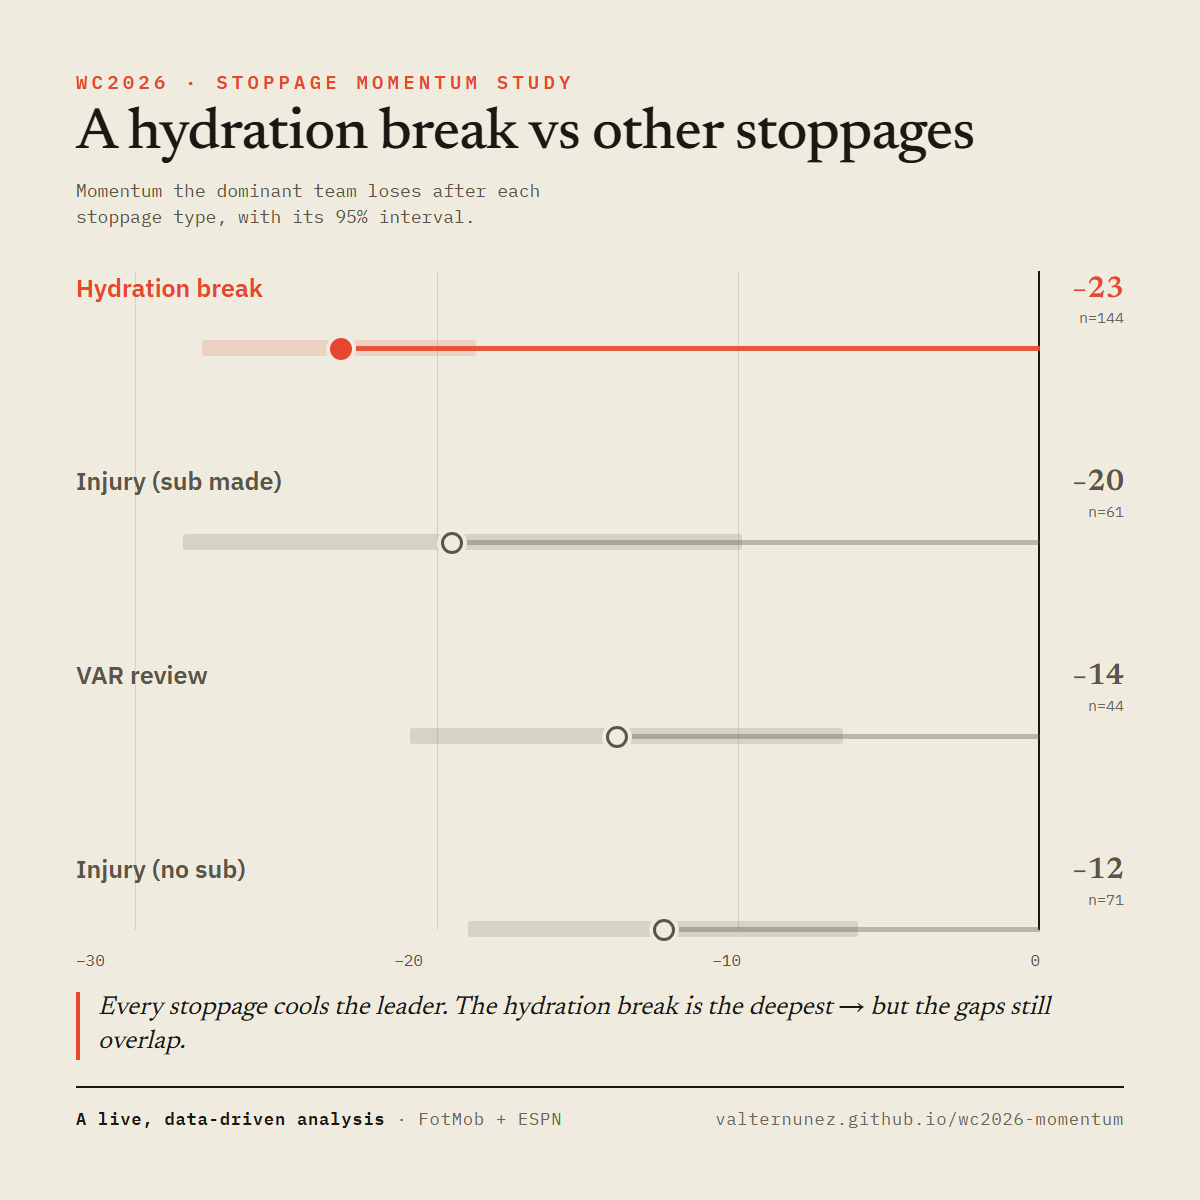
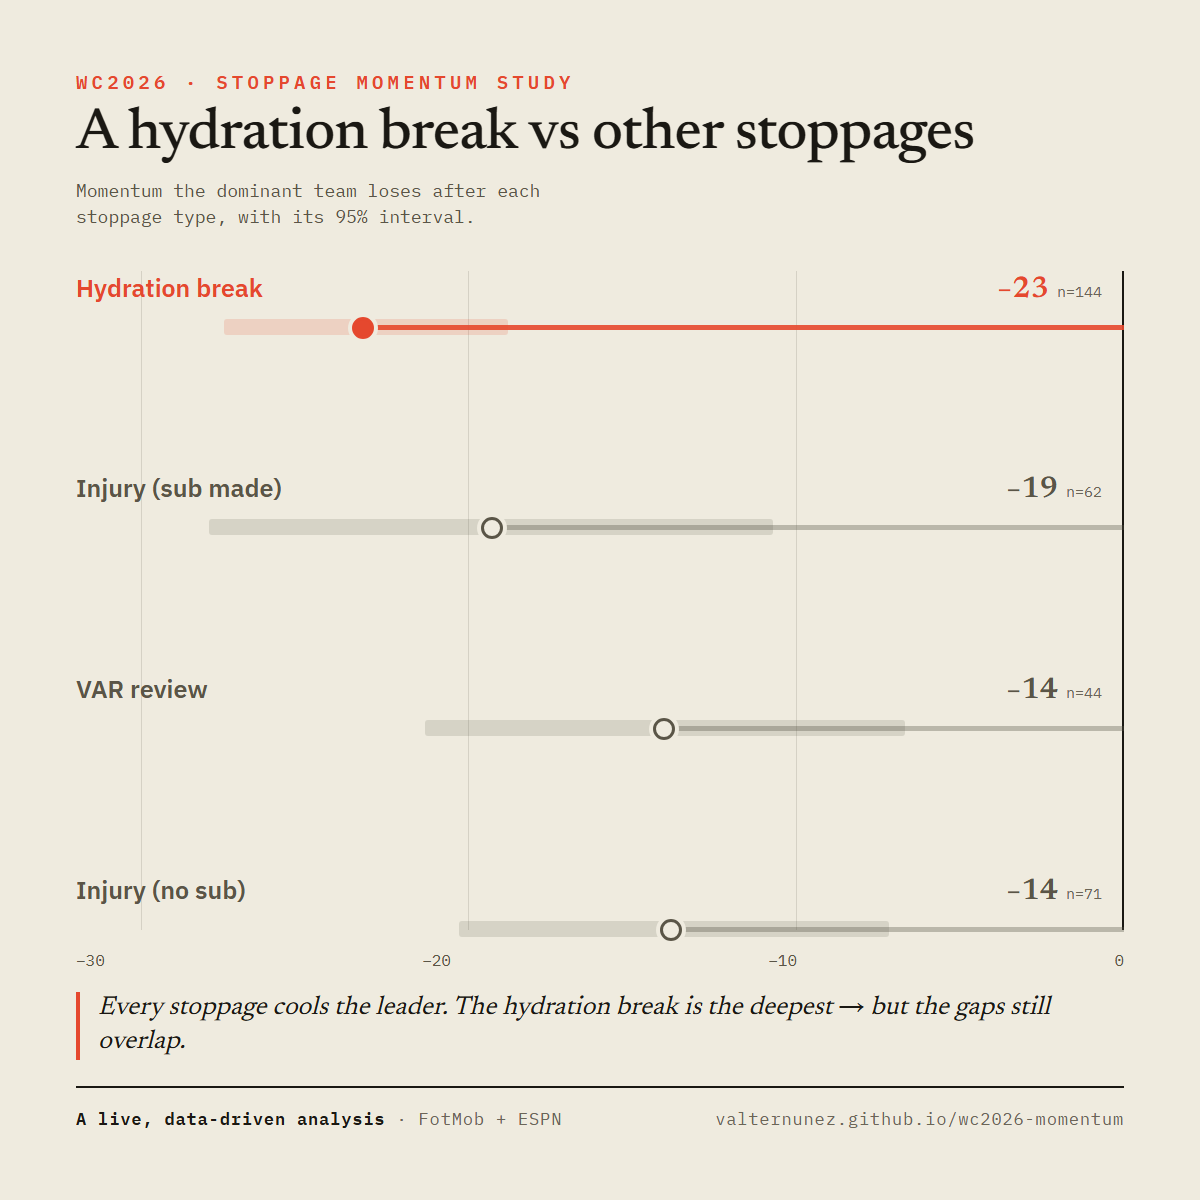
fix: nudge "n = X" clear of the zero line (§02 chart + LinkedIn cards)
- §02 on-page chart (_money_rows): give the "n = X" label a small right
  margin so it no longer sits on the dark zero gridline.
- LinkedIn graph cards: revert to the original inline value + n= layout
  (drop the stacked/gutter version) and just shift the value cluster a touch
  left so n= clears the zero line and stops crowding the card edge.

diff --git a/src/viz/social.py b/src/viz/social.py
@@ -150,21 +150,21 @@ _GRAPH_CARD = """<!doctype html><html><head><meta charset='utf-8'>
  h1{font-family:'Newsreader',serif;font-weight:500;font-size:58px;line-height:1.04;letter-spacing:-.015em;margin-top:10px}
  .sub{font-family:'IBM Plex Mono',monospace;font-size:18px;color:#5A5547;margin-top:14px;max-width:46ch;line-height:1.45}
  .chart{position:relative;margin-top:40px;flex:1;display:flex;flex-direction:column}
- .grid{position:absolute;top:0;bottom:40px;left:0;right:84px;pointer-events:none}
+ .grid{position:absolute;top:0;bottom:40px;left:0;right:0;pointer-events:none}
  .gl{position:absolute;top:0;bottom:0;width:1px;background:rgba(26,24,19,.12)}
  .gl.z{width:2px;background:#1A1813}
  .rows{flex:1;display:flex;flex-direction:column;justify-content:space-between}
  .row{position:relative}
  .rh{display:flex;justify-content:space-between;align-items:baseline;margin-bottom:9px}
  .lab{font-weight:600;font-size:25px}
- .rv{display:inline-flex;flex-direction:column;align-items:flex-end;line-height:1.05}
+ .rv{margin-right:22px}
  .rv b{font-family:'Newsreader',serif;font-weight:600;font-size:30px}
- .rv i{font-family:'IBM Plex Mono',monospace;font-style:normal;font-size:15px;color:#6B6557;margin-top:4px}
- .track{position:relative;height:26px;margin-right:84px}
+ .rv i{font-family:'IBM Plex Mono',monospace;font-style:normal;font-size:15px;color:#6B6557;margin-left:8px}
+ .track{position:relative;height:26px}
  .band{position:absolute;top:5px;height:16px;opacity:.16;border-radius:3px}
  .bar{position:absolute;top:11px;height:5px;right:0}
  .dot{position:absolute;top:3px;width:22px;height:22px;border-radius:50%;border:3px solid;box-shadow:0 0 0 4px #EFEBDF}
- .axis{display:flex;justify-content:space-between;font-family:'IBM Plex Mono',monospace;font-size:16px;color:#5A5547;margin-top:8px;margin-right:84px}
+ .axis{display:flex;justify-content:space-between;font-family:'IBM Plex Mono',monospace;font-size:16px;color:#5A5547;margin-top:8px}
  .legend{display:flex;gap:12px 22px;flex-wrap:wrap;align-items:center;font-family:'IBM Plex Mono',monospace;font-size:16px;color:#5A5547;margin-top:10px}
  .legend span{display:inline-flex;align-items:center;gap:8px}
  .sw{display:inline-block}

diff --git a/src/report/build_site.py b/src/report/build_site.py
@@ -247,7 +247,7 @@ def _money_rows(effects: list[dict], labels: dict) -> str:
         <div style="position:relative;margin-bottom:18px">
           <div style="display:flex;justify-content:space-between;align-items:baseline;margin-bottom:9px">
             <span style="font-family:'IBM Plex Sans',sans-serif;font-weight:600;font-size:16px;color:{color}">{labels[stype]}</span>
-            <span style="font-family:'IBM Plex Mono',monospace;font-size:12px;color:#6B6557">n = {e['n']}</span>
+            <span style="font-family:'IBM Plex Mono',monospace;font-size:12px;color:#6B6557;margin-right:14px">n = {e['n']}</span>
           </div>
           <div style="position:relative;height:30px">
             <div style="position:absolute;top:13px;height:4px;right:0;width:{mean_pct:.2f}%;background:{color};opacity:{1 if is_hl else .85}"></div>